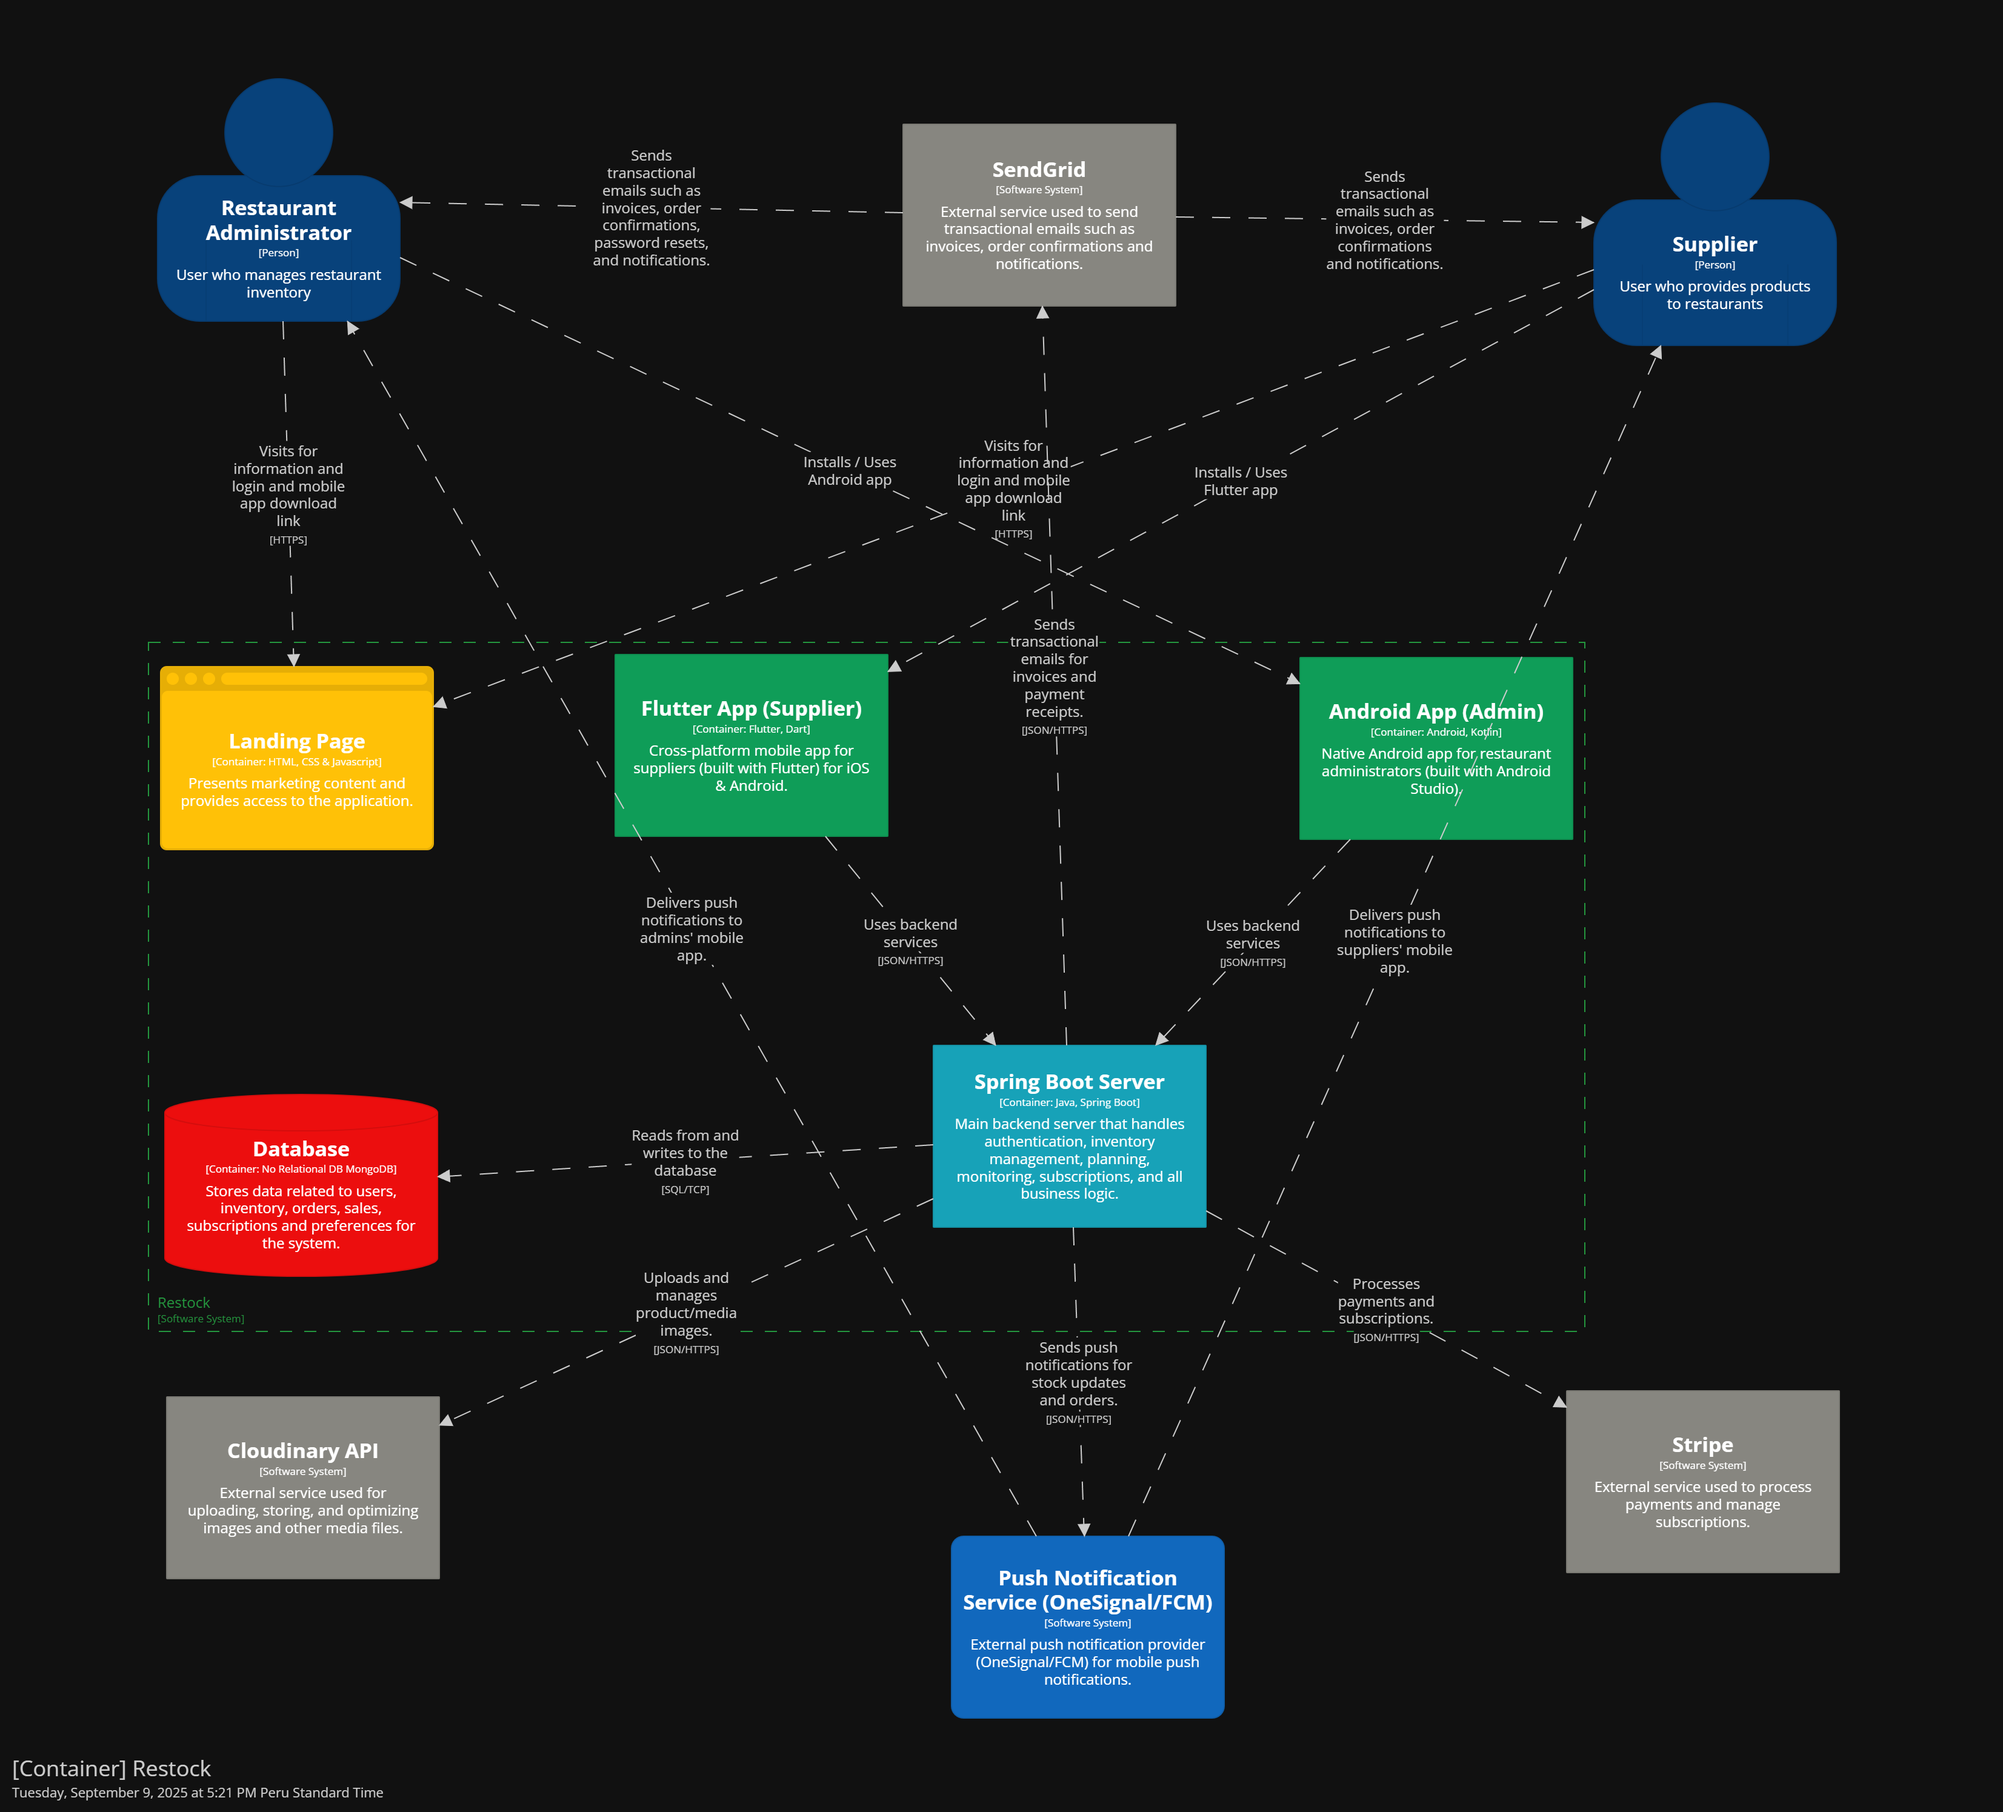
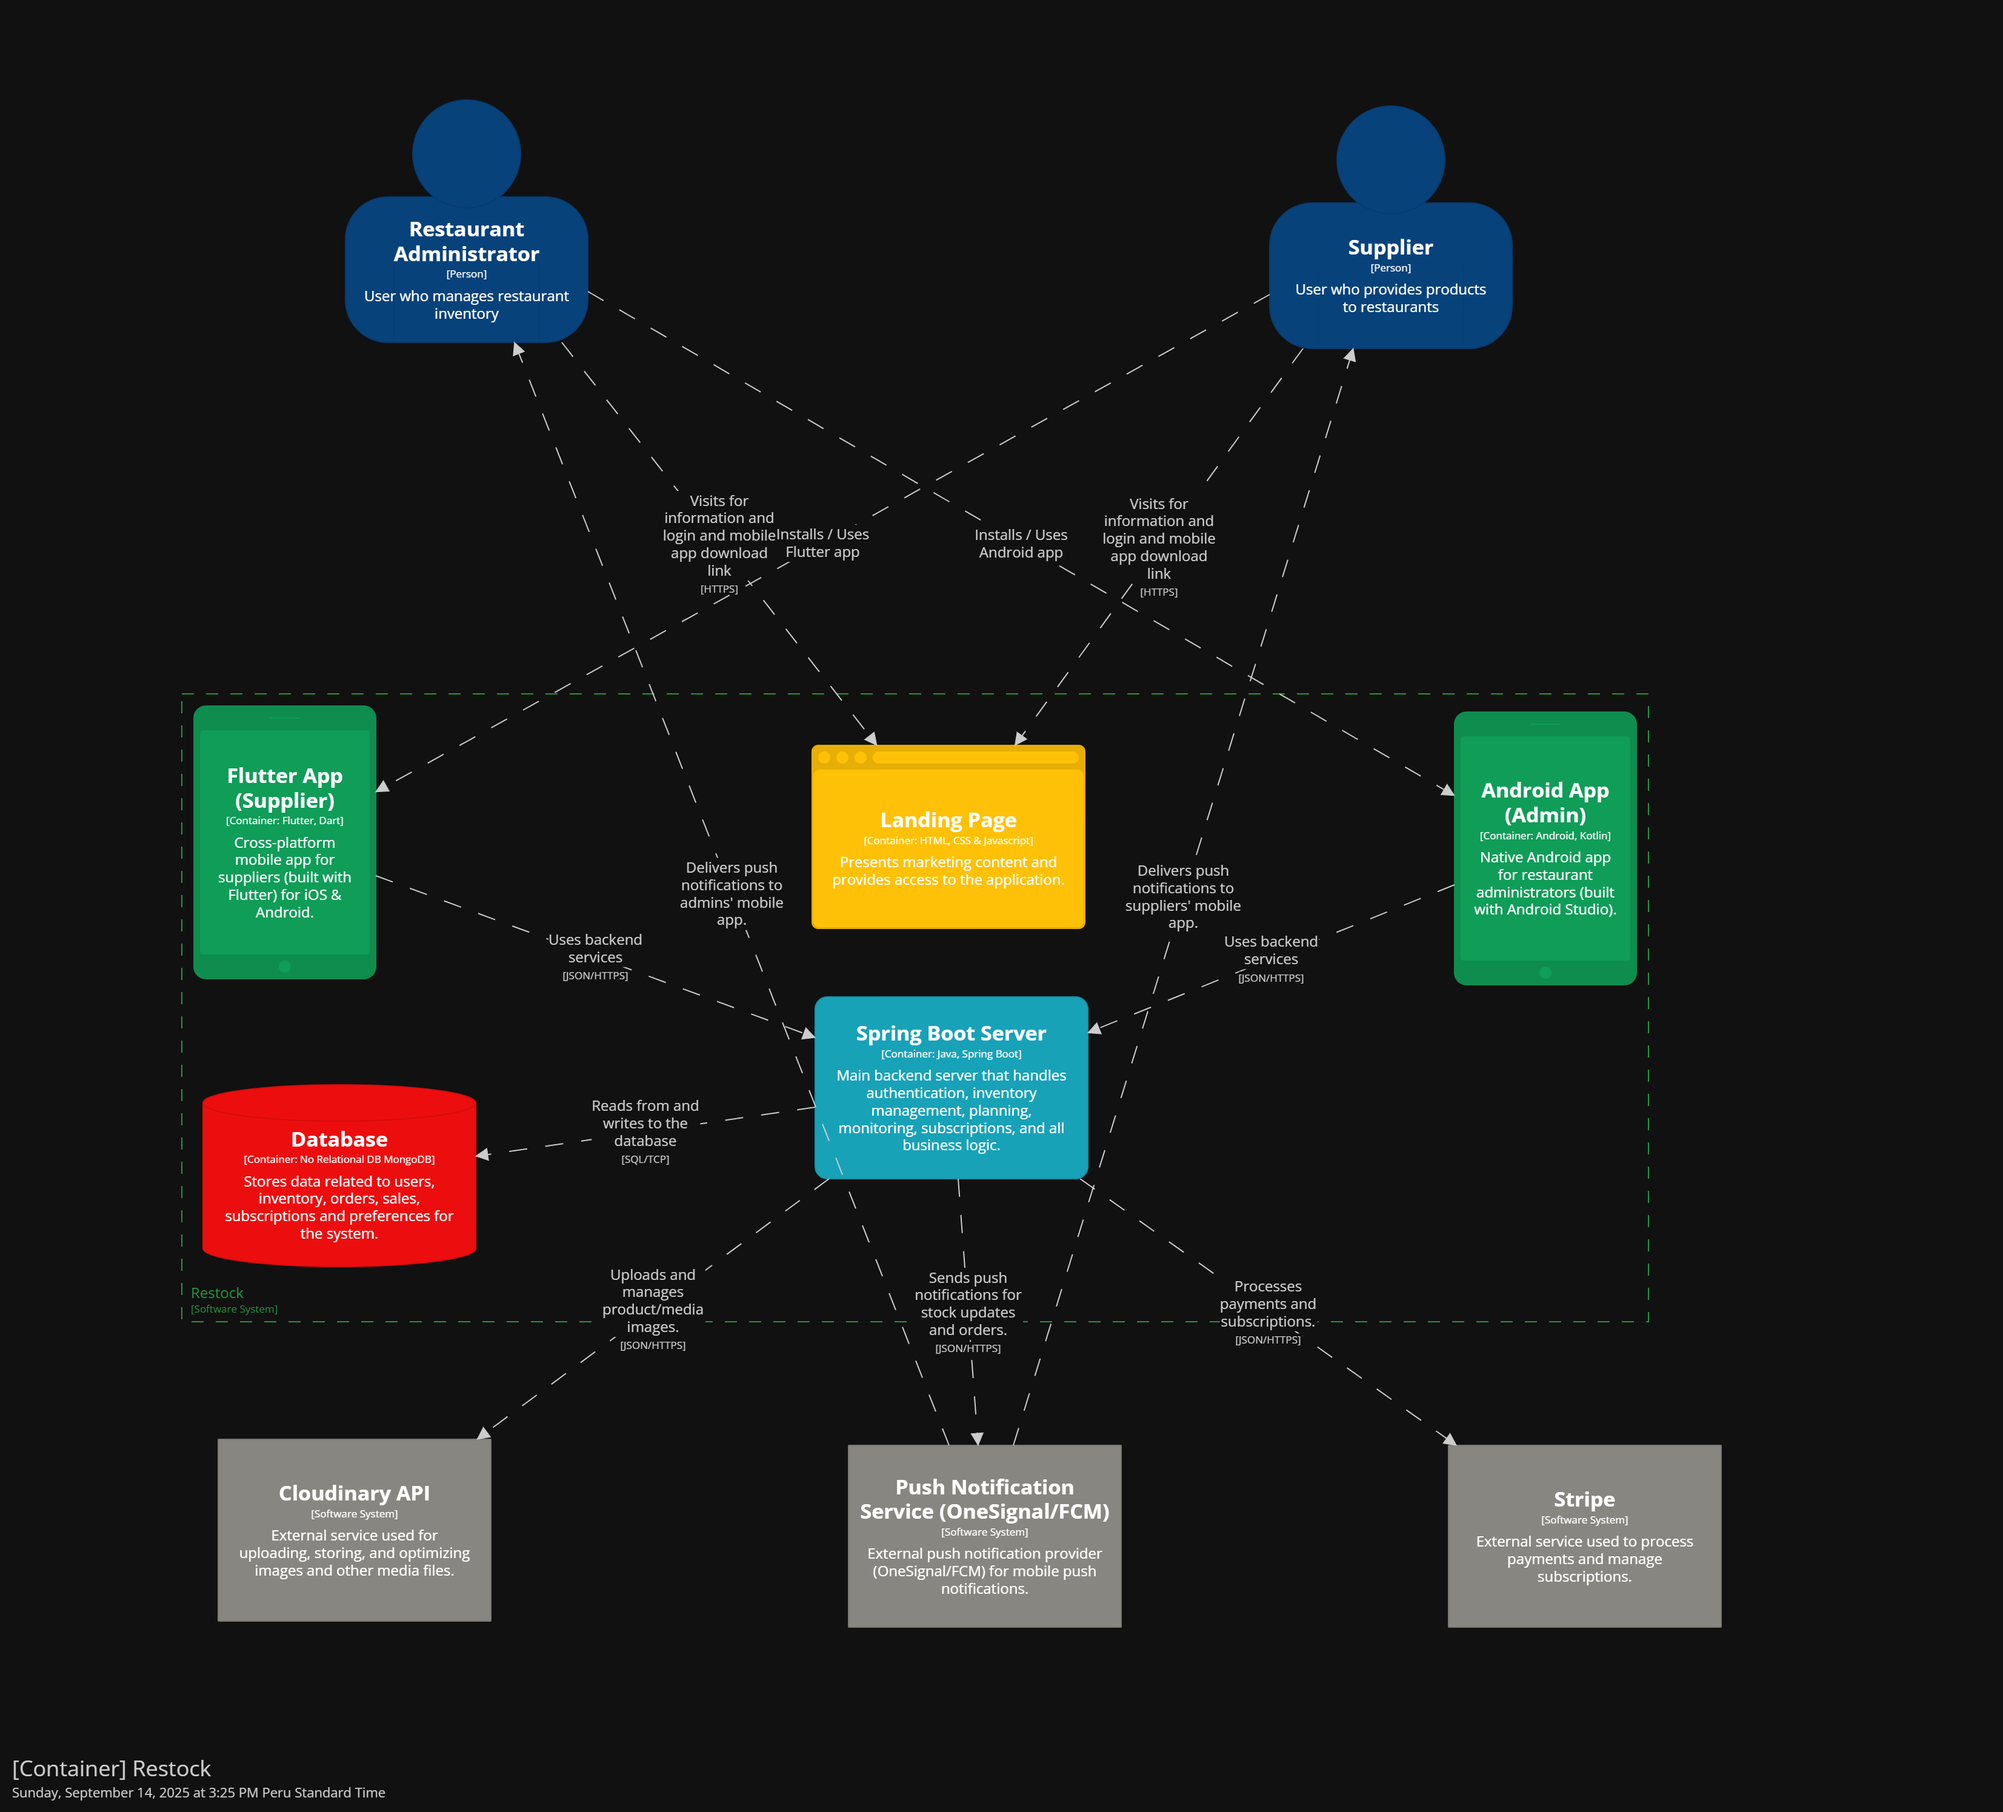
fix: fix C4 diagrams

diff --git a/05-cap4-solution-software-design.md b/05-cap4-solution-software-design.md
@@ -195,13 +195,13 @@ Esta sección aplica el *C4 Model* en dos niveles: **Context** (visión externa 
 
 ![Figura 4.1 - Context Diagram](assets/images/cap4/software_architecture/context.png)
 
-El Context Diagram muestra **Restock** como un recuadro central con dos actores (Administrador y Proveedor) y los servicios externos principales alrededor (Stripe, SendGrid, Push, Cloudinary). Su propósito es dejar claro el alcance del sistema: todo lo que está dentro del recuadro es responsabilidad del equipo; pagos, email, push y media se delegan a terceros.
+El Context Diagram muestra **Restock** como un recuadro central con dos actores (Administrador y Proveedor) y los servicios externos principales alrededor (Stripe, OneSignal, Cloudinary). Su propósito es dejar claro el alcance del sistema: todo lo que está dentro del recuadro es responsabilidad del equipo; pagos, email, push y media se delegan a terceros.
 
 #### 4.1.3.2. Software Architecture Container Level Diagrams
 
 ![Figura 4.2 - Container Diagram](assets/images/cap4/software_architecture/container.png)
 
-El Container Diagram descompone Restock en: apps móviles (Android para administradores, Flutter para proveedores), y los containers backend por bounded context (IAM, Subscription, Profile, Resource, Planning, Monitoring). También muestra la persistencia (MongoDB) y las integraciones externas.
+El Container Diagram descompone Restock en: landing page (sitio público), apps móviles (Android para administradores y Flutter para proveedores), y un único container de backend que concentra toda la lógica del sistema (los bounded contexts lógicos: IAM, Subscription, Profile, Resource, Planning y Monitoring), la persistencia (MongoDB) y las integraciones externas.
 
 **Decisiones tecnológicas principales (bullet points, muy breves)**
 
